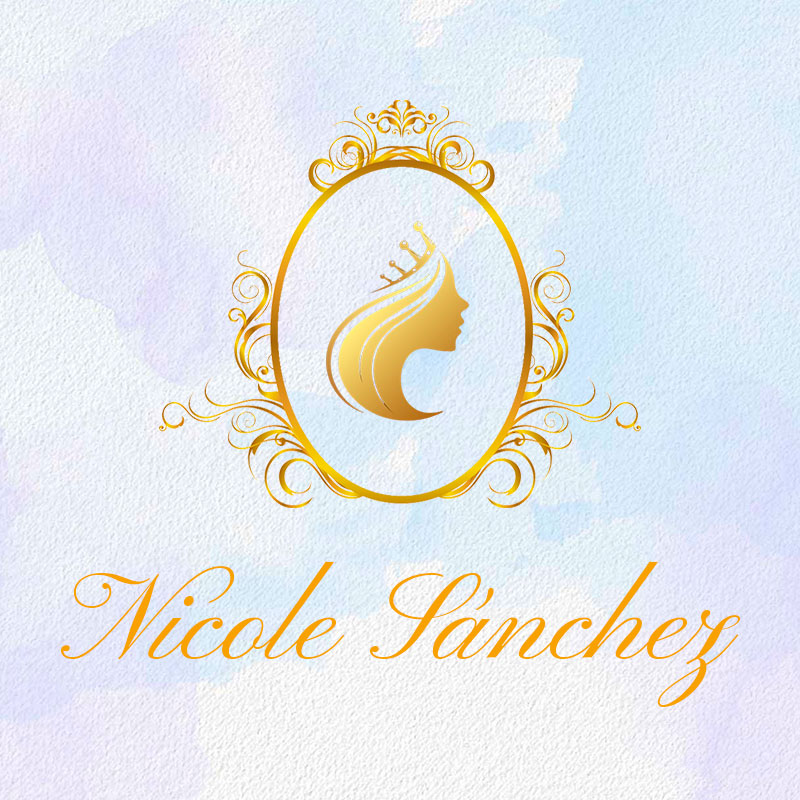
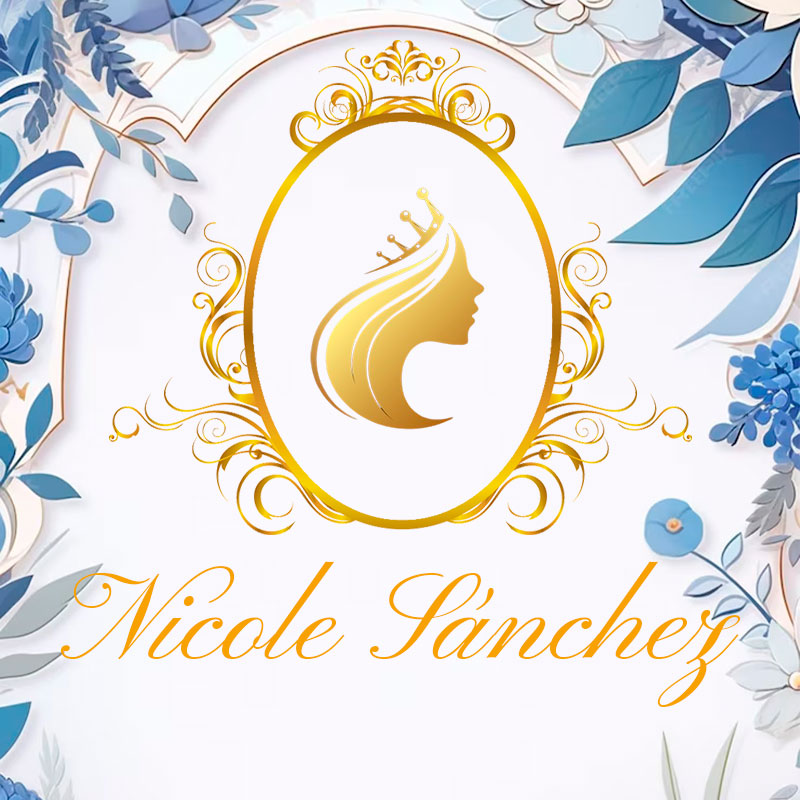
nicole invitation - background image

diff --git a/src/app/quinces/nicole/components/Main.tsx b/src/app/quinces/nicole/components/Main.tsx
@@ -90,7 +90,7 @@ export default function Main() {
   }, []);
 
   return (
-    <div className="max-w-3xl m-auto bg-[url('/img/quinces/nicole/background-main.jpg')] bg-center bg-cover bg-fixed shadow-large">
+    <div className="max-w-3xl m-auto bg-[url('/img/quinces/nicole/background-main-4.jpg')] bg-center bg-cover bg-fixed shadow-large">
       {open && (
         <motion.div
           initial={{ opacity: 0 }}
